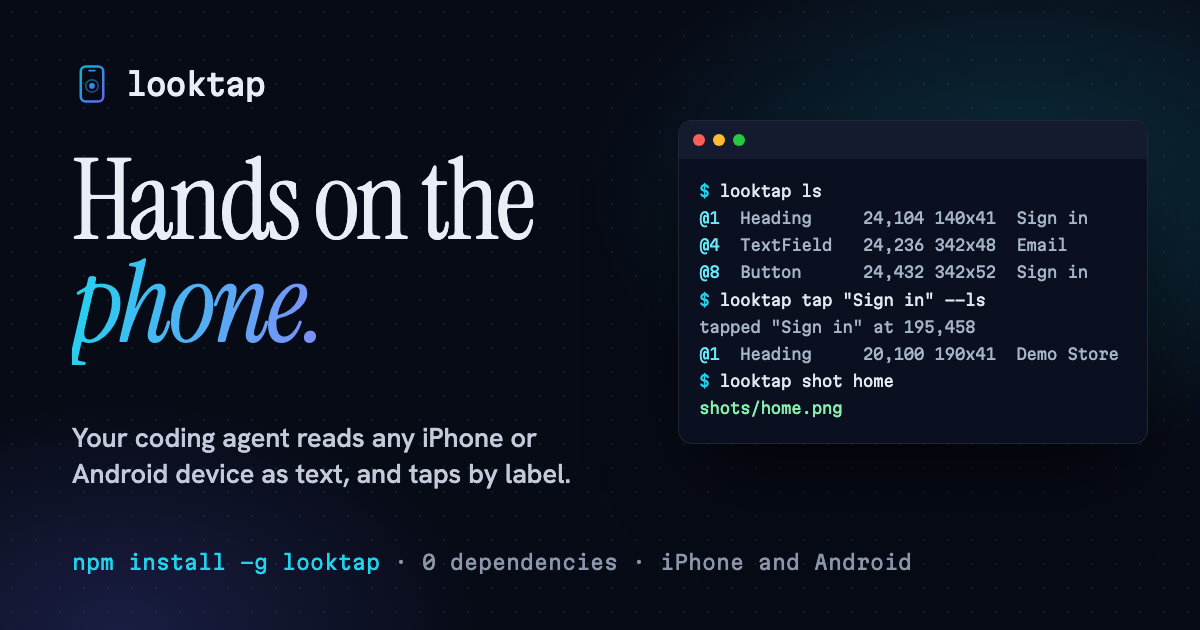
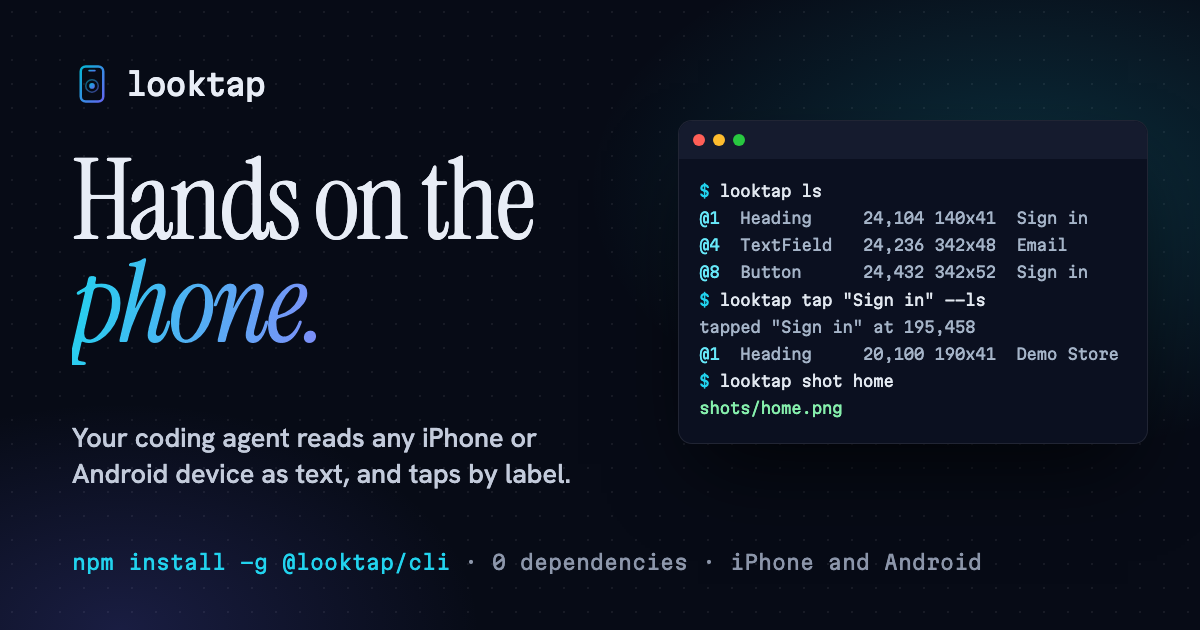
Publish as @looktap/cli
npm refuses the unscoped name looktap as too close to an existing package.
The command is still looktap; only the install name changes.

Changed region(s): [[0.4625, 0.8746, 0.8325, 0.9048], [0.2158, 0.8746, 0.4317, 0.9048]]

diff --git a/site/src/index.html b/site/src/index.html
@@ -22,7 +22,7 @@
 <!-- Fonts don't block the first paint: the system fallbacks show until they arrive. -->
 <link rel="stylesheet" href="https://fonts.googleapis.com/css2?family=Instrument+Serif:ital@0;1&family=Martian+Mono:wght@300;400;500&family=Hanken+Grotesk:wght@400;500;600;700&display=swap" media="print" onload="this.media='all'">
 <noscript><link rel="stylesheet" href="https://fonts.googleapis.com/css2?family=Instrument+Serif:ital@0;1&family=Martian+Mono:wght@300;400;500&family=Hanken+Grotesk:wght@400;500;600;700&display=swap"></noscript>
-<script type="application/ld+json">{"@context":"https://schema.org","@type":"SoftwareApplication","name":"looktap","applicationCategory":"DeveloperApplication","operatingSystem":"macOS, Linux","description":"Let AI agents drive iPhone and Android devices from the shell: read the screen as text, tap by label, type, swipe, screenshot, read logs and crashes. No server to start and zero dependencies."","url":"https://lakpriya1s.github.io/looktap/","downloadUrl":"https://www.npmjs.com/package/looktap","codeRepository":"https://github.com/lakpriya1s/looktap","license":"https://www.gnu.org/licenses/agpl-3.0.html","offers":{"@type":"Offer","price":"0","priceCurrency":"USD"}}</script>
+<script type="application/ld+json">{"@context":"https://schema.org","@type":"SoftwareApplication","name":"looktap","applicationCategory":"DeveloperApplication","operatingSystem":"macOS, Linux","description":"Let AI agents drive iPhone and Android devices from the shell: read the screen as text, tap by label, type, swipe, screenshot, read logs and crashes. No server to start and zero dependencies."","url":"https://lakpriya1s.github.io/looktap/","downloadUrl":"https://www.npmjs.com/package/@looktap/cli","codeRepository":"https://github.com/lakpriya1s/looktap","license":"https://www.gnu.org/licenses/agpl-3.0.html","offers":{"@type":"Offer","price":"0","priceCurrency":"USD"}}</script>
 <link rel="stylesheet" href="styles.css">
 <link rel="stylesheet" href="phone.css">
 <script>try{const t=localStorage.getItem('sw-theme');if(t)document.documentElement.dataset.theme=t}catch(e){}</script>
@@ -33,13 +33,13 @@
 
 <header class="topbar">
   <a class="brand" href="#top" aria-label="looktap home"><img src="favicon.svg" alt="" width="26" height="26"><span>looktap</span></a>
-  <a class="version" data-version href="https://www.npmjs.com/package/looktap" rel="noopener" title="looktap on npm"></a>
+  <a class="version" data-version href="https://www.npmjs.com/package/@looktap/cli" rel="noopener" title="looktap on npm"></a>
   <nav class="topnav" aria-label="Site">
     <a href="#story">Features</a>
     <a href="docs/quick-start.html">Docs</a>
     <a href="#benchmark">Benchmark</a>
     <a class="ico-link" href="https://github.com/lakpriya1s/looktap" rel="noopener" aria-label="GitHub"><svg class="ico" viewBox="0 0 24 24" aria-hidden="true" focusable="false"><path fill="currentColor" d="M12 .297c-6.63 0-12 5.373-12 12 0 5.303 3.438 9.8 8.205 11.385.6.113.82-.258.82-.577 0-.285-.01-1.04-.015-2.04-3.338.724-4.042-1.61-4.042-1.61C4.422 18.07 3.633 17.7 3.633 17.7c-1.087-.744.084-.729.084-.729 1.205.084 1.838 1.236 1.838 1.236 1.07 1.835 2.809 1.305 3.495.998.108-.776.417-1.305.76-1.605-2.665-.3-5.466-1.332-5.466-5.93 0-1.31.465-2.38 1.235-3.22-.135-.303-.54-1.523.105-3.176 0 0 1.005-.322 3.3 1.23.96-.267 1.98-.399 3-.405 1.02.006 2.04.138 3 .405 2.28-1.552 3.285-1.23 3.285-1.23.645 1.653.24 2.873.12 3.176.765.84 1.23 1.91 1.23 3.22 0 4.61-2.805 5.625-5.475 5.92.42.36.81 1.096.81 2.22 0 1.606-.015 2.896-.015 3.286 0 .315.21.69.825.57C20.565 22.092 24 17.592 24 12.297c0-6.627-5.373-12-12-12"/></svg><span>GitHub</span></a>
-    <a class="ico-link" href="https://www.npmjs.com/package/looktap" rel="noopener" aria-label="npm"><svg class="ico" viewBox="0 0 24 24" aria-hidden="true" focusable="false"><path fill="currentColor" d="M1.763 0C.786 0 0 .786 0 1.763v20.474C0 23.214.786 24 1.763 24h20.474c.977 0 1.763-.786 1.763-1.763V1.763C24 .786 23.214 0 22.237 0zM5.13 5.323l13.837.019-.009 13.836h-3.464l.01-10.382h-3.456L12.04 19.17H5.113z"/></svg><span>npm</span></a>
+    <a class="ico-link" href="https://www.npmjs.com/package/@looktap/cli" rel="noopener" aria-label="npm"><svg class="ico" viewBox="0 0 24 24" aria-hidden="true" focusable="false"><path fill="currentColor" d="M1.763 0C.786 0 0 .786 0 1.763v20.474C0 23.214.786 24 1.763 24h20.474c.977 0 1.763-.786 1.763-1.763V1.763C24 .786 23.214 0 22.237 0zM5.13 5.323l13.837.019-.009 13.836h-3.464l.01-10.382h-3.456L12.04 19.17H5.113z"/></svg><span>npm</span></a>
   </nav>
   <div class="seg" role="group" aria-label="Demo platform">
     <button type="button" data-platform-set="ios" aria-pressed="true" aria-label="iOS"><svg class="ico" viewBox="0 0 24 24" aria-hidden="true" focusable="false"><path fill="currentColor" d="M12.152 6.896c-.948 0-2.415-1.078-3.96-1.04-2.04.027-3.91 1.183-4.961 3.014-2.117 3.675-.546 9.103 1.519 12.09 1.013 1.454 2.208 3.09 3.792 3.039 1.52-.065 2.09-.987 3.935-.987 1.831 0 2.35.987 3.96.948 1.637-.026 2.676-1.48 3.676-2.948 1.156-1.688 1.636-3.325 1.662-3.415-.039-.013-3.182-1.221-3.22-4.857-.026-3.04 2.48-4.494 2.597-4.559-1.429-2.09-3.623-2.324-4.39-2.376-2-.156-3.675 1.09-4.61 1.09zM15.53 3.83c.843-1.012 1.4-2.427 1.245-3.83-1.207.052-2.662.805-3.532 1.818-.78.896-1.454 2.338-1.273 3.714 1.338.104 2.715-.688 3.559-1.701"/></svg><span>iOS</span></button>
@@ -56,10 +56,10 @@
         <h1 id="hero-title">Hands on the <em>phone.</em></h1>
         <p class="lede">looktap lets your coding agent see and use the app it's building. It reads the screen as a few lines of text and taps by label, on iPhone and Android devices. No server to start.</p>
         <div class="install">
-          <code id="install-cmd">npm install -g looktap</code>
+          <code id="install-cmd">npm install -g @looktap/cli</code>
           <button type="button" data-copy="#install-cmd">Copy</button>
         </div>
-        <p class="try">Or without installing: <code>npx looktap doctor</code></p>
+        <p class="try">Or without installing: <code>npx @looktap/cli doctor</code></p>
         <p class="cta"><a class="btn" href="docs/quick-start.html">Read the docs</a><a class="btn ghost" href="#start">Kickstart your agent</a></p>
         <dl class="stats">
           <div><dt>~1 KB</dt><dd>per screen read</dd></div>
@@ -139,19 +139,19 @@
         <p class="kicker">Get started</p>
         <h2 id="start-title">Two minutes to a phone your agent can use</h2>
         <ol class="steps">
-          <li><span>Install</span><code>npm install -g looktap</code></li>
+          <li><span>Install</span><code>npm install -g @looktap/cli</code></li>
           <li><span>Check the toolchain</span><code>looktap doctor</code></li>
           <li><span>Teach your agent</span><code>looktap skill --install</code></li>
           <li><span>Drive</span><code>looktap launch com.apple.Preferences --ls</code></li>
         </ol>
-        <p class="req">Prefer MCP? Claude Code: <code>claude mcp add looktap -- npx -y looktap mcp</code>. Chat apps without a shell (Claude Desktop, Cursor): <code>looktap mcp --config</code> prints a ready-to-paste config.</p>
+        <p class="req">Prefer MCP? Claude Code: <code>claude mcp add looktap -- npx -y @looktap/cli mcp</code>. Chat apps without a shell (Claude Desktop, Cursor): <code>looktap mcp --config</code> prints a ready-to-paste config.</p>
         <p class="req">Node 18+. iOS: macOS with Xcode. Android: adb, with an emulator or a device. <a href="docs/quick-start.html#requirements">Requirements</a> · <a href="docs/quick-start.html">Quick start</a> · <a href="docs/agents.html">For AI agents</a></p>
       </div>
       <div class="prompt-card">
         <div class="prompt-head"><span>Paste into Claude Code, Cursor, Codex, opencode…</span><button type="button" data-copy="#kickstart">Copy</button></div>
         <pre id="kickstart">Install looktap (https://github.com/lakpriya1s/looktap) so you can drive my app on an iPhone or Android device:
 
-1. Run `npm install -g looktap`, then `looktap doctor`, and fix anything it reports (boot a simulator or emulator, or connect a device, if none is up).
+1. Run `npm install -g @looktap/cli`, then `looktap doctor`, and fix anything it reports (boot a simulator or emulator, or connect a device, if none is up).
 2. Run `looktap skill --install` and read the skill it installs.
 3. Find my app's bundle id / package name in this repo and write a looktap.config.json with it at the repo root.
 4. Launch the app with `looktap launch --ls` and tell me what screen it's on.
@@ -169,7 +169,7 @@ Rules: never type real credentials, OTPs or card numbers. When the app needs a s
       <a href="docs/quick-start.html">Quick start</a><a href="docs/examples.html">Examples</a><a href="docs/commands.html">Commands</a>
       <a href="docs/agents.html">For AI agents</a><a href="docs/agent-guide.html">Agent guide</a><a href="docs/how-it-works.html">How it works</a>
       <a href="docs/troubleshooting.html">Troubleshooting</a><a href="docs/safety.html">Safety rules</a><a href="docs/contributing.html">Contributing</a>
-      <a href="https://www.npmjs.com/package/looktap" rel="noopener">npm</a><a href="https://github.com/lakpriya1s/looktap" rel="noopener">GitHub</a>
+      <a href="https://www.npmjs.com/package/@looktap/cli" rel="noopener">npm</a><a href="https://github.com/lakpriya1s/looktap" rel="noopener">GitHub</a>
     </nav>
     <p class="legal">AGPL-3.0-only. Not affiliated with Apple, Google or the Appium project. Apple, iOS, Android, GitHub and npm logos are trademarks of their owners; the Android robot is reproduced from work created and shared by Google and used according to the Creative Commons 3.0 Attribution License. The phone above is an animation of a fictional demo app; the commands and outputs are looktap's.</p>
   </div>

diff --git a/bin/looktap.js b/bin/looktap.js
@@ -639,7 +639,7 @@ Paste into your MCP client's config, e.g.
   Claude Desktop: ~/Library/Application Support/Claude/claude_desktop_config.json
   Cursor:         ~/.cursor/mcp.json
   Claude Code:    claude mcp add looktap -- ${process.execPath} ${script} mcp
-                  (or, from npm without installing: claude mcp add looktap -- npx -y looktap mcp)`);
+                  (or, from npm without installing: claude mcp add looktap -- npx -y @looktap/cli mcp)`);
 }
 
 /** Several commands in this one process: one helper connection, no per-command startup. */

diff --git a/site/og-card.html b/site/og-card.html
@@ -34,7 +34,7 @@
 </div>
 <h1>Hands on the <em>phone.</em></h1>
 <p>Your coding agent reads any iPhone or Android device as text, and taps by label.</p>
-<div class="foot">npm install -g looktap <span>· 0 dependencies · iPhone and Android</span></div>
+<div class="foot">npm install -g @looktap/cli <span>· 0 dependencies · iPhone and Android</span></div>
 <div class="term">
   <div class="bar"><i></i><i></i><i></i></div>
 <pre><span class="p">$</span> <span class="c">looktap ls</span>

diff --git a/README.md b/README.md
@@ -5,7 +5,7 @@
 **Let AI agents drive iPhone and Android devices from the shell**<br>
 Read the screen, tap, type, swipe, screenshot, and read logs and crashes. No server to start and no dependencies.
 
-[![npm](https://img.shields.io/npm/v/looktap.svg?color=cb3837&logo=npm)](https://www.npmjs.com/package/looktap)
+[![npm](https://img.shields.io/npm/v/@looktap/cli.svg?color=cb3837&logo=npm)](https://www.npmjs.com/package/@looktap/cli)
 [![License: AGPL-3.0](https://img.shields.io/badge/License-AGPL--3.0-blue.svg)](https://github.com/lakpriya1s/looktap/blob/main/LICENSE)
 [![Node ≥ 18](https://img.shields.io/badge/node-%E2%89%A518-339933.svg?logo=node.js&logoColor=white)](#requirements)
 [![iOS simulator](https://img.shields.io/badge/iOS-simulator%20%7C%20device-000000.svg?logo=apple&logoColor=white)](#how-it-works)
@@ -102,7 +102,7 @@ Android emulators and devices, and it isn't a test framework.
 
 ```bash
 # 1. install (Node 18+; zero dependencies)
-npm install -g looktap
+npm install -g @looktap/cli
 
 # 2. check the toolchain
 looktap doctor
@@ -118,7 +118,7 @@ looktap tap "General" --ls
 looktap shot general
 ```
 
-Or try it without installing anything: `npx looktap doctor` (any command works the same way).
+Or try it without installing anything: `npx @looktap/cli doctor` (any command works the same way).
 
 To add the agent skill, which teaches Claude Code how to use looktap:
 
@@ -145,13 +145,13 @@ cd looktap && npm install -g .
 As a tarball you can hand to someone (it includes both prebuilt helpers):
 
 ```bash
-npm pack                                  # → looktap-<version>.tgz
-npm install -g looktap-<version>.tgz    # on their machine
+npm pack                                  # → looktap-cli-<version>.tgz
+npm install -g looktap-cli-<version>.tgz  # on their machine
 ```
 
 Without installing: `node bin/looktap.js --help`.
 
-Uninstall: `npm uninstall -g looktap && rm -rf ~/.looktap`.
+Uninstall: `npm uninstall -g @looktap/cli && rm -rf ~/.looktap`.
 </details>
 
 ## 🤖 Kickstart with your AI agent
@@ -163,7 +163,7 @@ start using the app with you:
 Install looktap (https://github.com/lakpriya1s/looktap) so you can drive
 my app in the iOS simulator / Android emulator:
 
-1. Run `npm install -g looktap`, then `looktap doctor`,
+1. Run `npm install -g @looktap/cli`, then `looktap doctor`,
    and fix anything it reports (boot a simulator or emulator, or connect a device, if none is up).
 2. Run `looktap skill --install` and read the skill it installs.
 3. Find my app's bundle id / package name in this repo and write a
@@ -583,7 +583,7 @@ looktap mcp --config      # prints a ready-to-paste client config with absolute 
 - **Where to paste it:**
   - Claude Desktop: `~/Library/Application Support/Claude/claude_desktop_config.json`
   - Cursor: `~/.cursor/mcp.json`
-  - Claude Code: `claude mcp add looktap -- npx -y looktap mcp` (no install needed: it runs the latest
+  - Claude Code: `claude mcp add looktap -- npx -y @looktap/cli mcp` (no install needed: it runs the latest
     version from npm). Or the absolute paths: `claude mcp add looktap -- <node> <looktap.js> mcp`
 - **Why absolute paths:** desktop apps start servers with a minimal `PATH`. `looktap` also finds `adb` in the
   Android SDK by itself.

diff --git a/skills/looktap/SKILL.md b/skills/looktap/SKILL.md
@@ -1,7 +1,7 @@
 ---
 name: looktap
 description: Drive iPhone and Android devices (simulators, emulators or real phones) from the shell with looktap — read the screen, tap, type, swipe, deep-link, screenshot, record, read logs and crashes, and set permissions, location, dark mode and text size. Use when asked to open, navigate, test, reproduce a bug in, or take screenshots of a mobile app running in a simulator, emulator or on a real device.
-allowed-tools: Bash(looktap:*) Bash(npx looktap:*) Bash(npx -y looktap:*)
+allowed-tools: Bash(looktap:*) Bash(npx @looktap/cli:*) Bash(npx -y @looktap/cli:*)
 ---
 
 # Mobile app automation with looktap
@@ -329,11 +329,11 @@ Then look at the few frames that matter, not all of them.
 
 ## Installation
 
-If `looktap` isn't on the PATH, use `npx looktap` in every command (or `npx -y looktap` to skip the
+If `looktap` isn't on the PATH, use `npx @looktap/cli` in every command (or `npx -y @looktap/cli` to skip the
 prompt). Installing a global package may need the user's approval:
 
 ```bash
-npm install -g looktap
+npm install -g @looktap/cli
 looktap doctor
 ```
 
